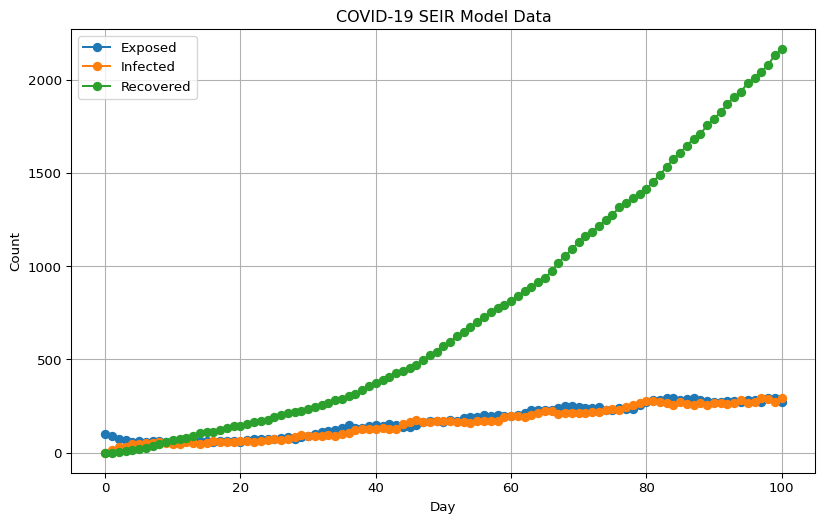
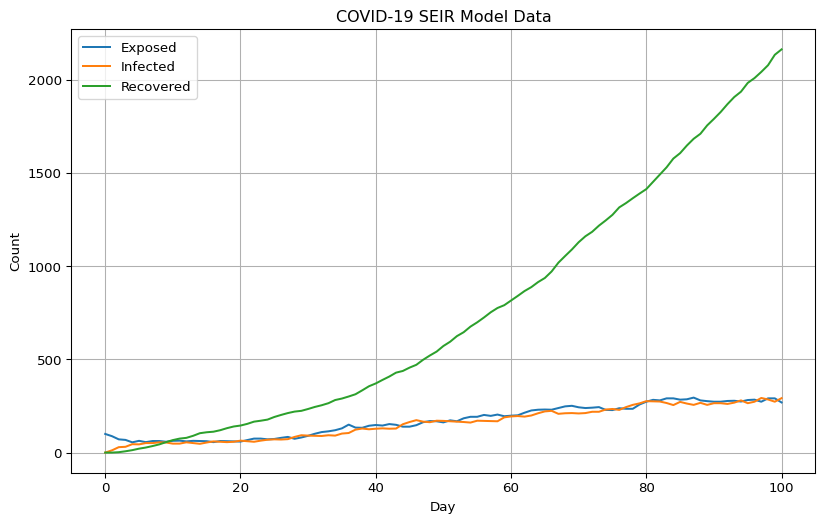
[readme] add more visualizations

diff --git a/README.md b/README.md
@@ -73,7 +73,7 @@ covid19.print(False)
      - Prob. Recovery       : 0.1400
      - Prob. Transmission   : 0.1000
 
-    <epiworldpy._core.ModelSEIRCONN at 0x105d14930>
+    <epiworldpy._core.ModelSEIRCONN at 0x10b1c85f0>
 
 Let’s run it and to see what we get:
 
@@ -100,7 +100,7 @@ covid19.print(False)
     Days (duration)     : 100 (of 100)
     Number of viruses   : 1
     Last run elapsed t  : 13.00ms
-    Last run speed      : 73.78 million agents x day / second
+    Last run speed      : 74.44 million agents x day / second
     Rewiring            : off
 
     Global events:
@@ -130,9 +130,9 @@ covid19.print(False)
      - Infected     0.00  0.00  0.86  0.14
      - Recovered    0.00  0.00  0.00  1.00
 
-    <epiworldpy._core.ModelSEIRCONN at 0x105d14930>
+    <epiworldpy._core.ModelSEIRCONN at 0x10b1c85f0>
 
-We can know visualize the resulting time series:
+We can now visualize the model’s compartments:
 
 ``` python
 import numpy as np
@@ -163,7 +163,7 @@ for state in unique_states:
 plt.figure(figsize=(10, 6))
 
 for state in unique_states:
-  plt.plot(unique_dates, time_series_data[state], marker='o', label=state)
+  plt.plot(unique_dates, time_series_data[state], label=state)
 
 plt.xlabel('Day')
 plt.ylabel('Count')
@@ -173,5 +173,143 @@ plt.grid(True)
 plt.show()
 ```
 
-![The data resulting from the COVID-19 SEIR model
-run](README_files/figure-commonmark/series-visualization-output-1.png)
+![COVID-19 SEIR model
+data](README_files/figure-commonmark/series-visualization-output-1.png)
+
+We can get the effective reproductive number, over time, too:
+
+``` python
+reproductive_data = covid19.get_db().get_reproductive_number()
+
+# Start the plotting!
+plt.figure(figsize=(10, 6))
+
+for virus_id, virus_data in enumerate(reproductive_data):
+    average_rts = list()
+    
+    for date_data in virus_data:
+        if not date_data:
+            continue
+
+        keys_array = np.array(list(date_data.values()), dtype=np.float64)
+        average_rts.append(np.mean(keys_array))
+
+    plt.plot(range(0, len(virus_data)-1), average_rts, label=f"Virus {virus_id}")
+
+plt.xlabel('Date')
+plt.ylabel('Effective Reproductive Rate')
+plt.title('COVID-19 SEIR Model Effective Reproductive Rate')
+plt.legend()
+plt.grid(True)
+plt.show()
+```
+
+![COVID-19 SEIR model effective reproductive
+number](README_files/figure-commonmark/rt-visualization-output-1.png)
+
+Let’s do the same for generation time:
+
+``` python
+from collections import defaultdict
+
+generation_time = covid19.get_db().get_generation_time()
+agents = generation_time['agents']
+viruses = generation_time['viruses']
+times = generation_time['times']
+gentimes = generation_time['gentimes']
+
+# Data formatting
+unique_viruses = np.unique(viruses)
+data = defaultdict(lambda: defaultdict(list))
+
+for agent, virus, time, gentime in zip(agents, viruses, times, gentimes):
+    data[virus][time].append(gentime)
+
+average_data = {virus: {} for virus in unique_viruses}
+
+for virus, time_dict in data.items():
+    for time, gentime_list in time_dict.items():
+        average_data[virus][time] = np.mean(gentime_list)
+
+# Plotting
+plt.figure(figsize=(10, 6))
+for virus, time_dict in average_data.items():
+    times = sorted(time_dict.keys())
+    gentimes = [time_dict[time] for time in times]
+    plt.plot(times, gentimes, label=f'Virus {virus}')
+
+plt.xlabel('Date')
+plt.ylabel('Generation Time')
+plt.title('COVID-19 SEIR Model Generation Time')
+plt.legend()
+plt.grid(True)
+plt.show()
+```
+
+![COVID-19 SEIR model generation
+time](README_files/figure-commonmark/gentime-visualization-output-1.png)
+
+Epiworld records agent-agent interactions, and we can graph those too.
+In the below example, we only all cases stemming from an index case.
+
+``` python
+import networkx as nx
+from matplotlib.animation import FuncAnimation
+
+transmissions = covid19.get_db().get_transmissions()
+start = transmissions['source_exposure_dates']
+end = transmissions['dates']
+source = transmissions['sources']
+target = transmissions['targets']
+days = max(end)
+
+graph = nx.Graph()
+fig, ax = plt.subplots(figsize=(6,4))
+
+# Animation function
+to_track = { source[0] }
+def update(frame):
+    ax.clear()
+    
+    agents_involved_today = set()
+    agents_relationships_we_care_about = []
+    
+    # Get only the agents involved in the current frame.
+    for i in range(len(start)):
+        if start[i] <= frame <= end[i]:
+            agents_involved_today.add((source[i], target[i]))
+
+    # Get only today's agents who have some connection to agents
+    # we've seen before.
+    for agent in agents_involved_today:
+        if agent[0] in to_track or agent[1] in to_track:
+            to_track.add(agent[0])
+            to_track.add(agent[1])
+            graph.add_edge(agent[0], agent[1])
+
+    # Lay and space them out.
+    pos = nx.kamada_kawai_layout(graph)
+
+    options = {
+        "with_labels": True,
+        "node_size": 300,
+        "font_size": 6,
+        "node_color": "white",
+        "edgecolors": "white",
+        "linewidths": 1,
+        "width": 1,
+    }
+
+    # Graph!
+    nx.draw_networkx(graph, pos, **options)
+    ax.set_title(f"COVID-19 SEIR Model Agent Contact (Day {frame})")
+
+ani = FuncAnimation(fig, update, frames=int(days/3), interval=200, repeat=False)
+plt.show()
+```
+
+<!-- I couldn't figure out a way to get Quarto to do animations correctly so we're
+  hardcoding a GIF. -->
+
+![Contact information from the COVID-19 SEIR model
+run](README_files/figure-commonmark/contact-visualization-output-1.gif)
